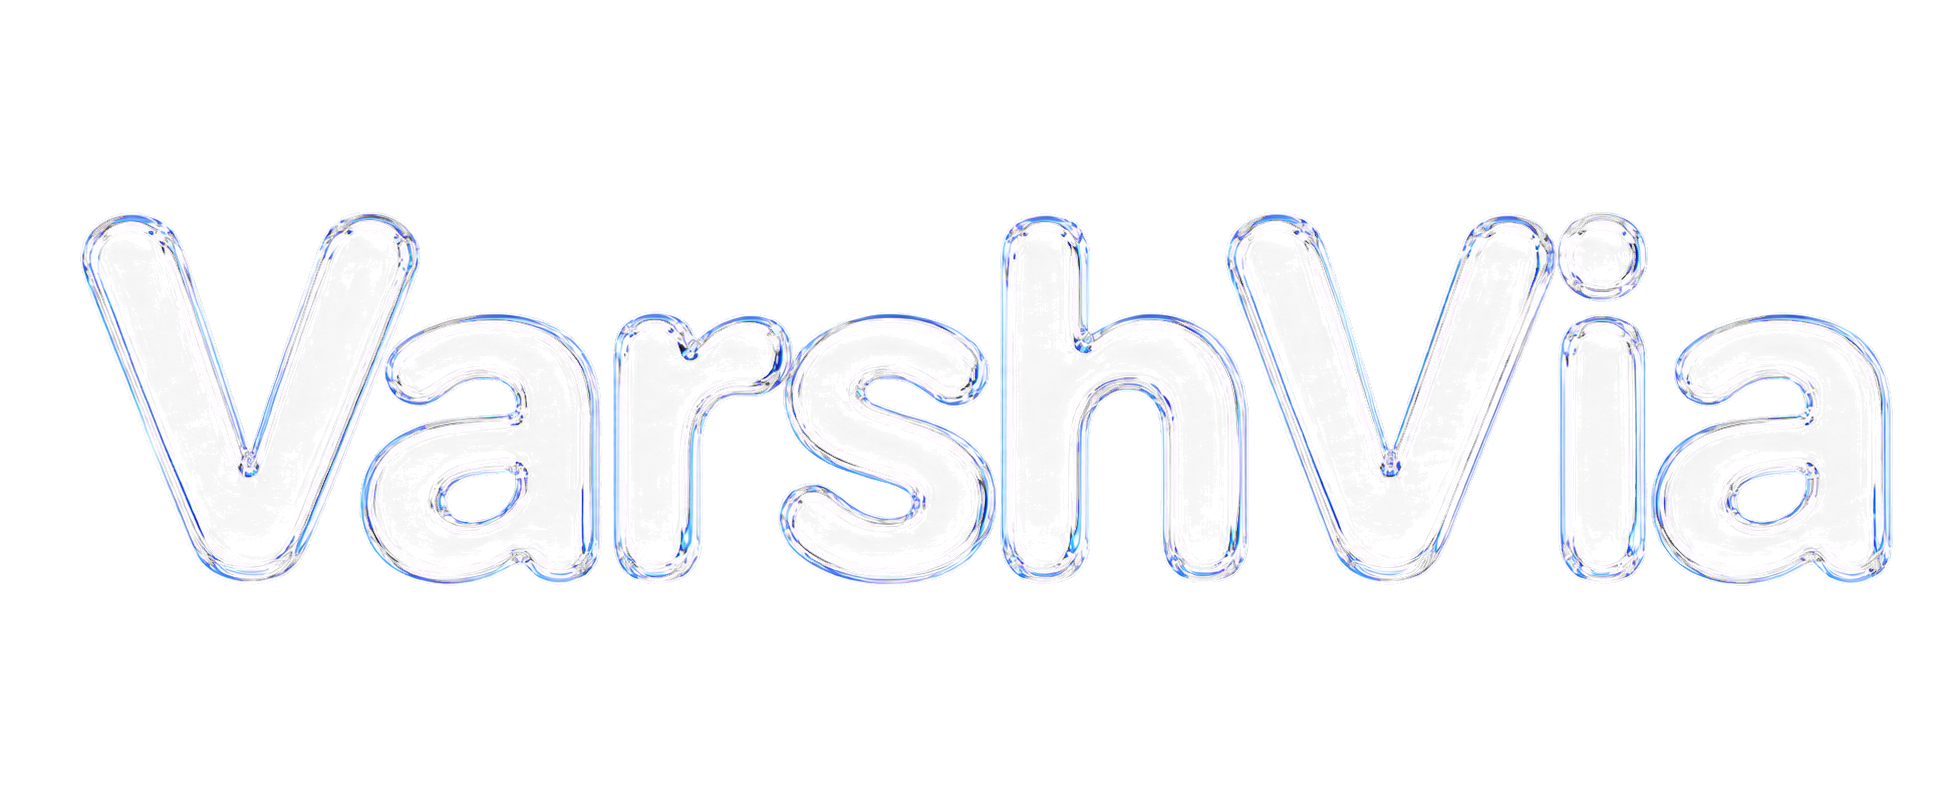
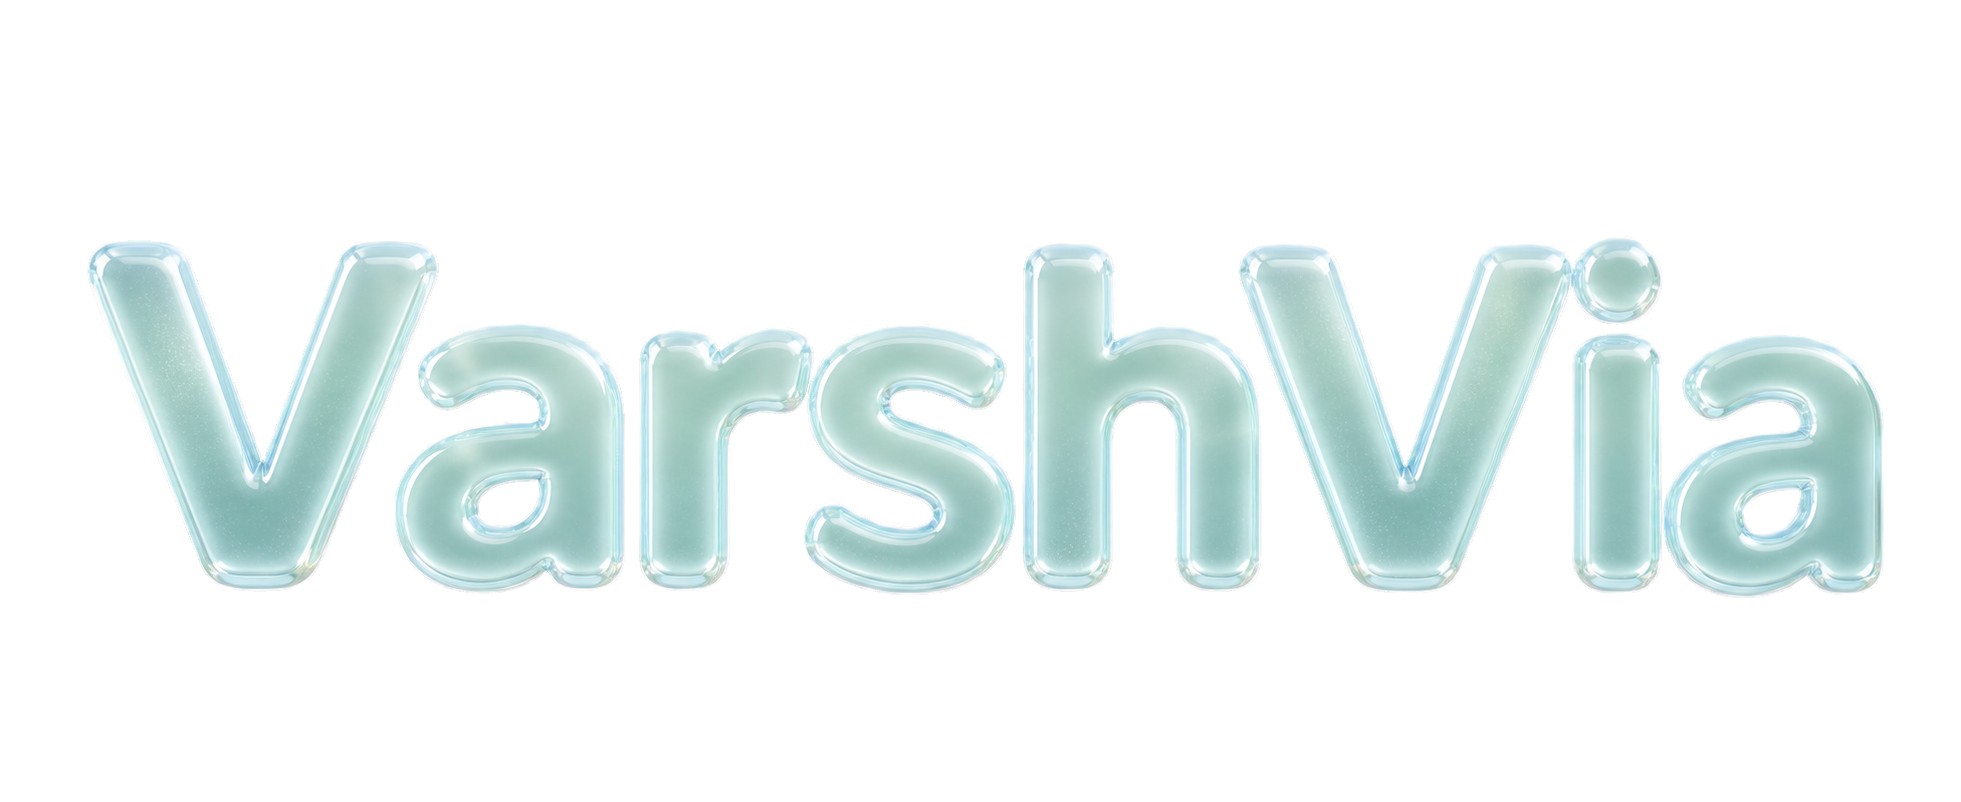
Refine hero glass wordmark

Changed region(s): [[0.0311, 0.2494, 0.9653, 0.7481]]

diff --git a/styles.css b/styles.css
@@ -156,12 +156,12 @@ button { color: inherit; }
 }
 .glass-title-image {
   display: block;
-  width: min(82vw, 1500px);
-  max-height: 44vh;
+  width: min(70vw, 1220px);
+  max-height: 36vh;
   object-fit: contain;
   filter:
-    drop-shadow(0 18px 34px rgba(0, 40, 70, .12))
-    drop-shadow(0 0 18px rgba(218, 248, 255, .18));
+    drop-shadow(0 16px 28px rgba(0, 40, 70, .1))
+    drop-shadow(0 0 12px rgba(218, 248, 255, .14));
   animation: glass-title-in 1.05s cubic-bezier(.16, 1, .3, 1) both;
 }
 .glass-scroll {
@@ -386,7 +386,7 @@ footer { min-height: 110px; display: flex; justify-content: space-between; align
   .glass-home-frame { min-height: 100svh; border-radius: 0; }
   .glass-home-content { padding: 96px 18px; }
   .glass-home h1 { font-size: clamp(72px, 25vw, 122px); }
-  .glass-title-image { width: min(94vw, 760px); max-height: 30vh; }
+  .glass-title-image { width: min(88vw, 720px); max-height: 28vh; }
   .glass-scroll { bottom: 20px; padding: 9px 15px; }
   .site-header { height: 56px; padding: 0 10px 0 18px; }.header-contact { padding: 9px 13px; font-size: 13px; }
   .hero { min-height: 780px; padding: 100px 20px 42px; gap: 20px; }.hero h1 { font-size: 18vw; }.hero-intro { font-size: 21px; }.hero-stage { min-height: 380px; }.hero-browser { top: 28px; width: 96%; height: 270px; }.browser-body { padding: 40px 28px; }.translation-popover { top: 83px; right: 18px; width: 210px; padding: 14px; }.translation-popover p { margin: 15px 0; font-size: 13px; }.hero-phone { right: 2px; width: 142px; height: 285px; padding: 12px 8px; border-width: 5px; border-radius: 27px; }.phone-island { width: 46px; height: 12px; margin-bottom: 12px; }.nutrition-ring { width: 87px; height: 87px; margin: 15px auto; border-width: 8px; }.nutrition-ring strong { font-size: 15px; }.macro-row b { font-size: 8px; }.macro-row span { font-size: 6px; padding: 6px 1px; }